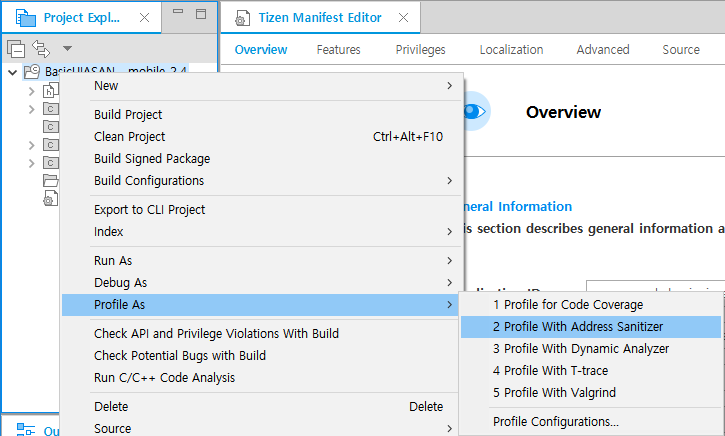
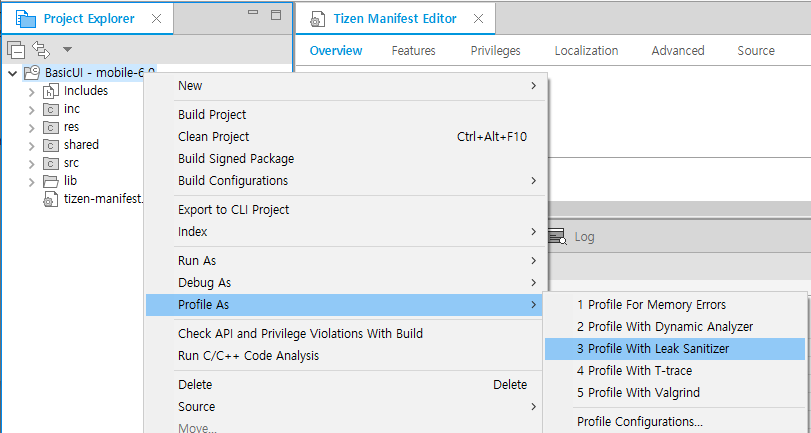
profiling: updates as "Profile With Memory Errors"  with screenshot.

diff --git a/docs/application/tizen-studio/native-tools/address-sanitizer.md b/docs/application/tizen-studio/native-tools/address-sanitizer.md
@@ -20,7 +20,7 @@ The Address Sanitizer tool can detect the following types of bugs:
 
 To use the Address Sanitizer:
 
-1. In the **Project Explorer** view, right-click the project and select **Profile As > Profile With Address Sanitizer**.
+1. In the **Project Explorer** view, right-click the project and select **Profile As > Profile With Memory Errors**.
 
    The profiling instruments the code and compiles the project for the Address Sanitizer. Finally, it launches the application on the connected target or emulator.
 
